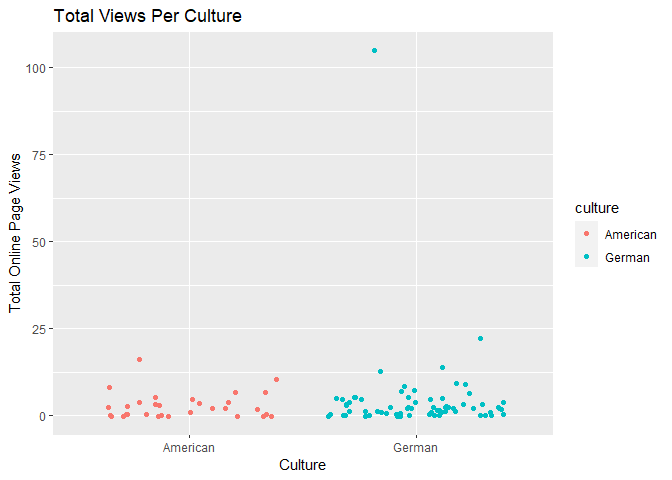
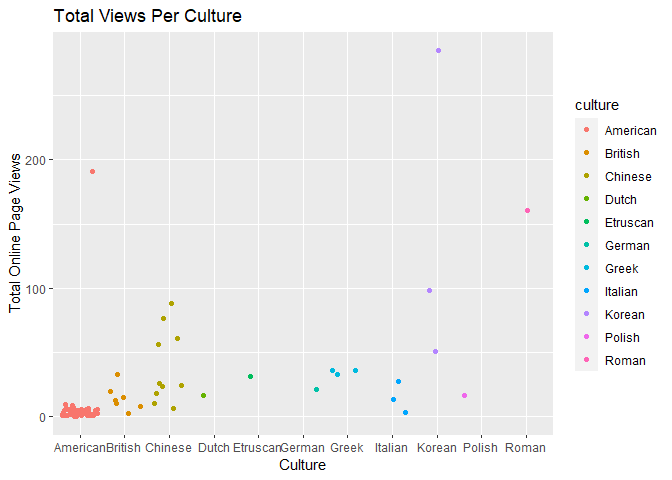
Differing graphs when reloading

diff --git a/README.html b/README.html
@@ -1103,12 +1103,28 @@ discrete variable of x and a continuous variable of y to better suit my
 data. The column plot compares the total number of online views to each
 century. My guess would be that more recent pieces would be more
 popular.</p>
-<div class="sourceCode" id="cb23"><pre class="sourceCode r"><code class="sourceCode r"><span id="cb23-1"><a href="#cb23-1" tabindex="-1"></a><span class="co">#Make a scatterplot of the century versus the totalpageviews</span></span>
-<span id="cb23-2"><a href="#cb23-2" tabindex="-1"></a>cent_views_plot3 <span class="ot">&lt;-</span> <span class="fu">ggplot</span>(obj_tbl, <span class="fu">aes</span>(<span class="at">x =</span> century, <span class="at">y =</span> totalpageviews)) <span class="sc">+</span> </span>
-<span id="cb23-3"><a href="#cb23-3" tabindex="-1"></a>                             <span class="fu">geom_col</span>(<span class="fu">aes</span>(<span class="at">fill =</span> century, <span class="at">color =</span> century)) <span class="sc">+</span> </span>
-<span id="cb23-4"><a href="#cb23-4" tabindex="-1"></a>                             <span class="fu">labs</span>(<span class="at">title =</span> <span class="st">&quot;Total Views Per Century&quot;</span>, <span class="at">x =</span> <span class="st">&quot;Century&quot;</span>, <span class="at">y =</span> <span class="st">&quot;Total Online Views&quot;</span>)  </span>
-<span id="cb23-5"><a href="#cb23-5" tabindex="-1"></a><span class="co">#Returning the plot  </span></span>
-<span id="cb23-6"><a href="#cb23-6" tabindex="-1"></a>cent_views_plot3</span></code></pre></div>
+<div class="sourceCode" id="cb23"><pre class="sourceCode r"><code class="sourceCode r"><span id="cb23-1"><a href="#cb23-1" tabindex="-1"></a><span class="co">#Including the call again so that the plots render correctly  </span></span>
+<span id="cb23-2"><a href="#cb23-2" tabindex="-1"></a>obj_tbl <span class="ot">&lt;-</span> <span class="fu">object_info</span>(<span class="st">&quot;1d505e26-5d36-4674-a35b-c40cab886778&quot;</span>)  </span></code></pre></div>
+<pre><code>## # A tibble: 99 × 4
+##    objectid century      culture  totalpageviews
+##       &lt;int&gt; &lt;chr&gt;        &lt;chr&gt;             &lt;int&gt;
+##  1    39114 20th century American              0
+##  2    39115 20th century American              0
+##  3    39116 20th century American              3
+##  4    39117 20th century American              0
+##  5    39118 20th century American              2
+##  6    39119 20th century American              5
+##  7    39120 20th century German                4
+##  8    39121 20th century German                3
+##  9    39122 20th century American              5
+## 10    39123 20th century American             10
+## # ℹ 89 more rows</code></pre>
+<div class="sourceCode" id="cb25"><pre class="sourceCode r"><code class="sourceCode r"><span id="cb25-1"><a href="#cb25-1" tabindex="-1"></a><span class="co">#Make a scatterplot of the century versus the totalpageviews</span></span>
+<span id="cb25-2"><a href="#cb25-2" tabindex="-1"></a>cent_views_plot3 <span class="ot">&lt;-</span> <span class="fu">ggplot</span>(obj_tbl, <span class="fu">aes</span>(<span class="at">x =</span> century, <span class="at">y =</span> totalpageviews)) <span class="sc">+</span> </span>
+<span id="cb25-3"><a href="#cb25-3" tabindex="-1"></a>                             <span class="fu">geom_col</span>(<span class="fu">aes</span>(<span class="at">fill =</span> century, <span class="at">color =</span> century)) <span class="sc">+</span> </span>
+<span id="cb25-4"><a href="#cb25-4" tabindex="-1"></a>                             <span class="fu">labs</span>(<span class="at">title =</span> <span class="st">&quot;Total Views Per Century&quot;</span>, <span class="at">x =</span> <span class="st">&quot;Century&quot;</span>, <span class="at">y =</span> <span class="st">&quot;Total Online Views&quot;</span>)  </span>
+<span id="cb25-5"><a href="#cb25-5" tabindex="-1"></a><span class="co">#Returning the plot  </span></span>
+<span id="cb25-6"><a href="#cb25-6" tabindex="-1"></a>cent_views_plot3</span></code></pre></div>
[1 lines of base64/hex data omitted]
 <p>This plot is a great visual. Although the x-axis is a bit muddled
 with labels, the coloring legend helps immensely. The most popular
@@ -1125,13 +1141,29 @@ culture comes out with the most views. I would imagine that cultures
 rich in history and artistic skill would have more than other cultures.
 I am not a history buff, otherwise I might be able to name which ones
 would be my top guesses for the most viewed culture.</p>
-<div class="sourceCode" id="cb24"><pre class="sourceCode r"><code class="sourceCode r"><span id="cb24-1"><a href="#cb24-1" tabindex="-1"></a><span class="co">#Make a histogram for the totalpageviews per culture  </span></span>
-<span id="cb24-2"><a href="#cb24-2" tabindex="-1"></a>cult_views_plot4 <span class="ot">&lt;-</span> <span class="fu">ggplot</span>(obj_tbl, <span class="fu">aes</span>(<span class="at">x =</span> culture, <span class="at">y =</span> totalpageviews)) <span class="sc">+</span> </span>
-<span id="cb24-3"><a href="#cb24-3" tabindex="-1"></a>                              <span class="fu">geom_jitter</span>(<span class="fu">aes</span>(<span class="at">fill =</span> culture, <span class="at">color =</span> culture)) <span class="sc">+</span> </span>
-<span id="cb24-4"><a href="#cb24-4" tabindex="-1"></a>                              <span class="fu">labs</span>(<span class="at">title =</span> <span class="st">&quot;Total Views Per Culture&quot;</span>, <span class="at">x =</span> <span class="st">&quot;Culture&quot;</span>, <span class="at">y =</span> <span class="st">&quot;Total Online Page Views&quot;</span>)  </span>
-<span id="cb24-5"><a href="#cb24-5" tabindex="-1"></a><span class="co">#Returning the plot  </span></span>
-<span id="cb24-6"><a href="#cb24-6" tabindex="-1"></a>cult_views_plot4  </span></code></pre></div>
[1 lines of base64/hex data omitted]
+<div class="sourceCode" id="cb26"><pre class="sourceCode r"><code class="sourceCode r"><span id="cb26-1"><a href="#cb26-1" tabindex="-1"></a><span class="co">#Including the call again so that the plots render correctly  </span></span>
+<span id="cb26-2"><a href="#cb26-2" tabindex="-1"></a>obj_tbl <span class="ot">&lt;-</span> <span class="fu">object_info</span>(<span class="st">&quot;1d505e26-5d36-4674-a35b-c40cab886778&quot;</span>)  </span></code></pre></div>
+<pre><code>## # A tibble: 100 × 4
+##    objectid century      culture  totalpageviews
+##       &lt;int&gt; &lt;chr&gt;        &lt;chr&gt;             &lt;int&gt;
+##  1    54767 20th century American              2
+##  2    54768 20th century American              2
+##  3    54769 20th century American              3
+##  4    54770 20th century American              1
+##  5    54771 20th century American              6
+##  6    54772 20th century American              1
+##  7    54773 20th century American              4
+##  8    54774 20th century American              1
+##  9    54775 20th century American              3
+## 10    54776 20th century American              7
+## # ℹ 90 more rows</code></pre>
+<div class="sourceCode" id="cb28"><pre class="sourceCode r"><code class="sourceCode r"><span id="cb28-1"><a href="#cb28-1" tabindex="-1"></a><span class="co">#Make a histogram for the totalpageviews per culture  </span></span>
+<span id="cb28-2"><a href="#cb28-2" tabindex="-1"></a>cult_views_plot4 <span class="ot">&lt;-</span> <span class="fu">ggplot</span>(obj_tbl, <span class="fu">aes</span>(<span class="at">x =</span> culture, <span class="at">y =</span> totalpageviews)) <span class="sc">+</span> </span>
+<span id="cb28-3"><a href="#cb28-3" tabindex="-1"></a>                              <span class="fu">geom_jitter</span>(<span class="fu">aes</span>(<span class="at">fill =</span> culture, <span class="at">color =</span> culture)) <span class="sc">+</span> </span>
+<span id="cb28-4"><a href="#cb28-4" tabindex="-1"></a>                              <span class="fu">labs</span>(<span class="at">title =</span> <span class="st">&quot;Total Views Per Culture&quot;</span>, <span class="at">x =</span> <span class="st">&quot;Culture&quot;</span>, <span class="at">y =</span> <span class="st">&quot;Total Online Page Views&quot;</span>)  </span>
+<span id="cb28-5"><a href="#cb28-5" tabindex="-1"></a><span class="co">#Returning the plot  </span></span>
+<span id="cb28-6"><a href="#cb28-6" tabindex="-1"></a>cult_views_plot4  </span></code></pre></div>
[1 lines of base64/hex data omitted]
 <p>This jitter plot of the total views per culture is very interesting.
 Before adding the coloring aesthetic to the jitter arguments, this plot
 only showed American and German views, and there was one extremely high
@@ -1147,12 +1179,28 @@ to emphasis the frequency of the number of views in case some are being
 obscured in the more haphazard organization of a jitter plot. Based on
 the jitter plot results, I should be seeing the highest views in Korean
 culture and a high outlier in American culture.</p>
-<div class="sourceCode" id="cb25"><pre class="sourceCode r"><code class="sourceCode r"><span id="cb25-1"><a href="#cb25-1" tabindex="-1"></a><span class="co">#Make a dotplot to demonstrate the totalpageviews per culture  </span></span>
-<span id="cb25-2"><a href="#cb25-2" tabindex="-1"></a>cult_views_plot5 <span class="ot">&lt;-</span> <span class="fu">ggplot</span>(obj_tbl, <span class="fu">aes</span>(<span class="at">x =</span> culture, <span class="at">y =</span> totalpageviews)) <span class="sc">+</span> </span>
-<span id="cb25-3"><a href="#cb25-3" tabindex="-1"></a>                              <span class="fu">geom_dotplot</span>(<span class="fu">aes</span>(<span class="at">fill =</span> culture, <span class="at">color =</span> culture), <span class="at">binaxis =</span> <span class="st">&quot;y&quot;</span>, <span class="at">stackdir =</span> <span class="st">&quot;center&quot;</span>) <span class="sc">+</span> </span>
-<span id="cb25-4"><a href="#cb25-4" tabindex="-1"></a>                              <span class="fu">labs</span>(<span class="at">title =</span> <span class="st">&quot;More Descriptive Plot of Total Views Per Culture&quot;</span>, <span class="at">x =</span> <span class="st">&quot;Culture&quot;</span>, <span class="at">y =</span> <span class="st">&quot;Total Online Page Views&quot;</span>)  </span>
-<span id="cb25-5"><a href="#cb25-5" tabindex="-1"></a><span class="co">#Returning the plot  </span></span>
-<span id="cb25-6"><a href="#cb25-6" tabindex="-1"></a>cult_views_plot5  </span></code></pre></div>
+<div class="sourceCode" id="cb29"><pre class="sourceCode r"><code class="sourceCode r"><span id="cb29-1"><a href="#cb29-1" tabindex="-1"></a><span class="co">#Including the call again so that the plots render correctly  </span></span>
+<span id="cb29-2"><a href="#cb29-2" tabindex="-1"></a>obj_tbl <span class="ot">&lt;-</span> <span class="fu">object_info</span>(<span class="st">&quot;1d505e26-5d36-4674-a35b-c40cab886778&quot;</span>)  </span></code></pre></div>
+<pre><code>## # A tibble: 99 × 4
+##    objectid century      culture  totalpageviews
+##       &lt;int&gt; &lt;chr&gt;        &lt;chr&gt;             &lt;int&gt;
+##  1    39114 20th century American              0
+##  2    39115 20th century American              0
+##  3    39116 20th century American              3
+##  4    39117 20th century American              0
+##  5    39118 20th century American              2
+##  6    39119 20th century American              5
+##  7    39120 20th century German                4
+##  8    39121 20th century German                3
+##  9    39122 20th century American              5
+## 10    39123 20th century American             10
+## # ℹ 89 more rows</code></pre>
+<div class="sourceCode" id="cb31"><pre class="sourceCode r"><code class="sourceCode r"><span id="cb31-1"><a href="#cb31-1" tabindex="-1"></a><span class="co">#Make a dotplot to demonstrate the totalpageviews per culture  </span></span>
+<span id="cb31-2"><a href="#cb31-2" tabindex="-1"></a>cult_views_plot5 <span class="ot">&lt;-</span> <span class="fu">ggplot</span>(obj_tbl, <span class="fu">aes</span>(<span class="at">x =</span> culture, <span class="at">y =</span> totalpageviews)) <span class="sc">+</span> </span>
+<span id="cb31-3"><a href="#cb31-3" tabindex="-1"></a>                              <span class="fu">geom_dotplot</span>(<span class="fu">aes</span>(<span class="at">fill =</span> culture, <span class="at">color =</span> culture), <span class="at">binaxis =</span> <span class="st">&quot;y&quot;</span>, <span class="at">stackdir =</span> <span class="st">&quot;center&quot;</span>) <span class="sc">+</span> </span>
+<span id="cb31-4"><a href="#cb31-4" tabindex="-1"></a>                              <span class="fu">labs</span>(<span class="at">title =</span> <span class="st">&quot;More Descriptive Plot of Total Views Per Culture&quot;</span>, <span class="at">x =</span> <span class="st">&quot;Culture&quot;</span>, <span class="at">y =</span> <span class="st">&quot;Total Online Page Views&quot;</span>)  </span>
+<span id="cb31-5"><a href="#cb31-5" tabindex="-1"></a><span class="co">#Returning the plot  </span></span>
+<span id="cb31-6"><a href="#cb31-6" tabindex="-1"></a>cult_views_plot5  </span></code></pre></div>
 <pre><code>## Bin width defaults to 1/30 of the range of the data. Pick better value with `binwidth`.</code></pre>
[1 lines of base64/hex data omitted]
 <p>This dot plot did exactly as I expected. With some shifts to the bin,
@@ -1162,8 +1210,8 @@ plot does show a more organized version of the jitter plot aside from
 the data points from American culture. Korea still has the highest views
 with American, and Roman in second and third place, respectively.
 Overall These last few plots with the coloring helped out tremendously
-to visual more of the data and understand even the overlapping
-points.</p>
+to visual more of the data and understand even the overlapping data
+points</p>
 
 </body>
 </html>

diff --git a/README.md b/README.md
@@ -585,6 +585,26 @@ century. My guess would be that more recent pieces would be more
 popular.
 
 ``` r
+#Including the call again so that the plots render correctly  
+obj_tbl <- object_info("1d505e26-5d36-4674-a35b-c40cab886778")  
+```
+
+    ## # A tibble: 99 × 4
+    ##    objectid century      culture  totalpageviews
+    ##       <int> <chr>        <chr>             <int>
+    ##  1    39114 20th century American              0
+    ##  2    39115 20th century American              0
+    ##  3    39116 20th century American              3
+    ##  4    39117 20th century American              0
+    ##  5    39118 20th century American              2
+    ##  6    39119 20th century American              5
+    ##  7    39120 20th century German                4
+    ##  8    39121 20th century German                3
+    ##  9    39122 20th century American              5
+    ## 10    39123 20th century American             10
+    ## # ℹ 89 more rows
+
+``` r
 #Make a scatterplot of the century versus the totalpageviews
 cent_views_plot3 <- ggplot(obj_tbl, aes(x = century, y = totalpageviews)) + 
                              geom_col(aes(fill = century, color = century)) + 
@@ -610,6 +630,26 @@ the most views. I would imagine that cultures rich in history and
 artistic skill would have more than other cultures. I am not a history
 buff, otherwise I might be able to name which ones would be my top
 guesses for the most viewed culture.
+
+``` r
+#Including the call again so that the plots render correctly  
+obj_tbl <- object_info("1d505e26-5d36-4674-a35b-c40cab886778")  
+```
+
+    ## # A tibble: 100 × 4
+    ##    objectid century      culture  totalpageviews
+    ##       <int> <chr>        <chr>             <int>
+    ##  1    54767 20th century American              2
+    ##  2    54768 20th century American              2
+    ##  3    54769 20th century American              3
+    ##  4    54770 20th century American              1
+    ##  5    54771 20th century American              6
+    ##  6    54772 20th century American              1
+    ##  7    54773 20th century American              4
+    ##  8    54774 20th century American              1
+    ##  9    54775 20th century American              3
+    ## 10    54776 20th century American              7
+    ## # ℹ 90 more rows
 
 ``` r
 #Make a histogram for the totalpageviews per culture  
@@ -640,6 +680,26 @@ the jitter plot results, I should be seeing the highest views in Korean
 culture and a high outlier in American culture.
 
 ``` r
+#Including the call again so that the plots render correctly  
+obj_tbl <- object_info("1d505e26-5d36-4674-a35b-c40cab886778")  
+```
+
+    ## # A tibble: 99 × 4
+    ##    objectid century      culture  totalpageviews
+    ##       <int> <chr>        <chr>             <int>
+    ##  1    39114 20th century American              0
+    ##  2    39115 20th century American              0
+    ##  3    39116 20th century American              3
+    ##  4    39117 20th century American              0
+    ##  5    39118 20th century American              2
+    ##  6    39119 20th century American              5
+    ##  7    39120 20th century German                4
+    ##  8    39121 20th century German                3
+    ##  9    39122 20th century American              5
+    ## 10    39123 20th century American             10
+    ## # ℹ 89 more rows
+
+``` r
 #Make a dotplot to demonstrate the totalpageviews per culture  
 cult_views_plot5 <- ggplot(obj_tbl, aes(x = culture, y = totalpageviews)) + 
                               geom_dotplot(aes(fill = culture, color = culture), binaxis = "y", stackdir = "center") + 
@@ -659,4 +719,5 @@ plot does show a more organized version of the jitter plot aside from
 the data points from American culture. Korea still has the highest views
 with American, and Roman in second and third place, respectively.
 Overall These last few plots with the coloring helped out tremendously
-to visual more of the data and understand even the overlapping points.
+to visual more of the data and understand even the overlapping data
+points
